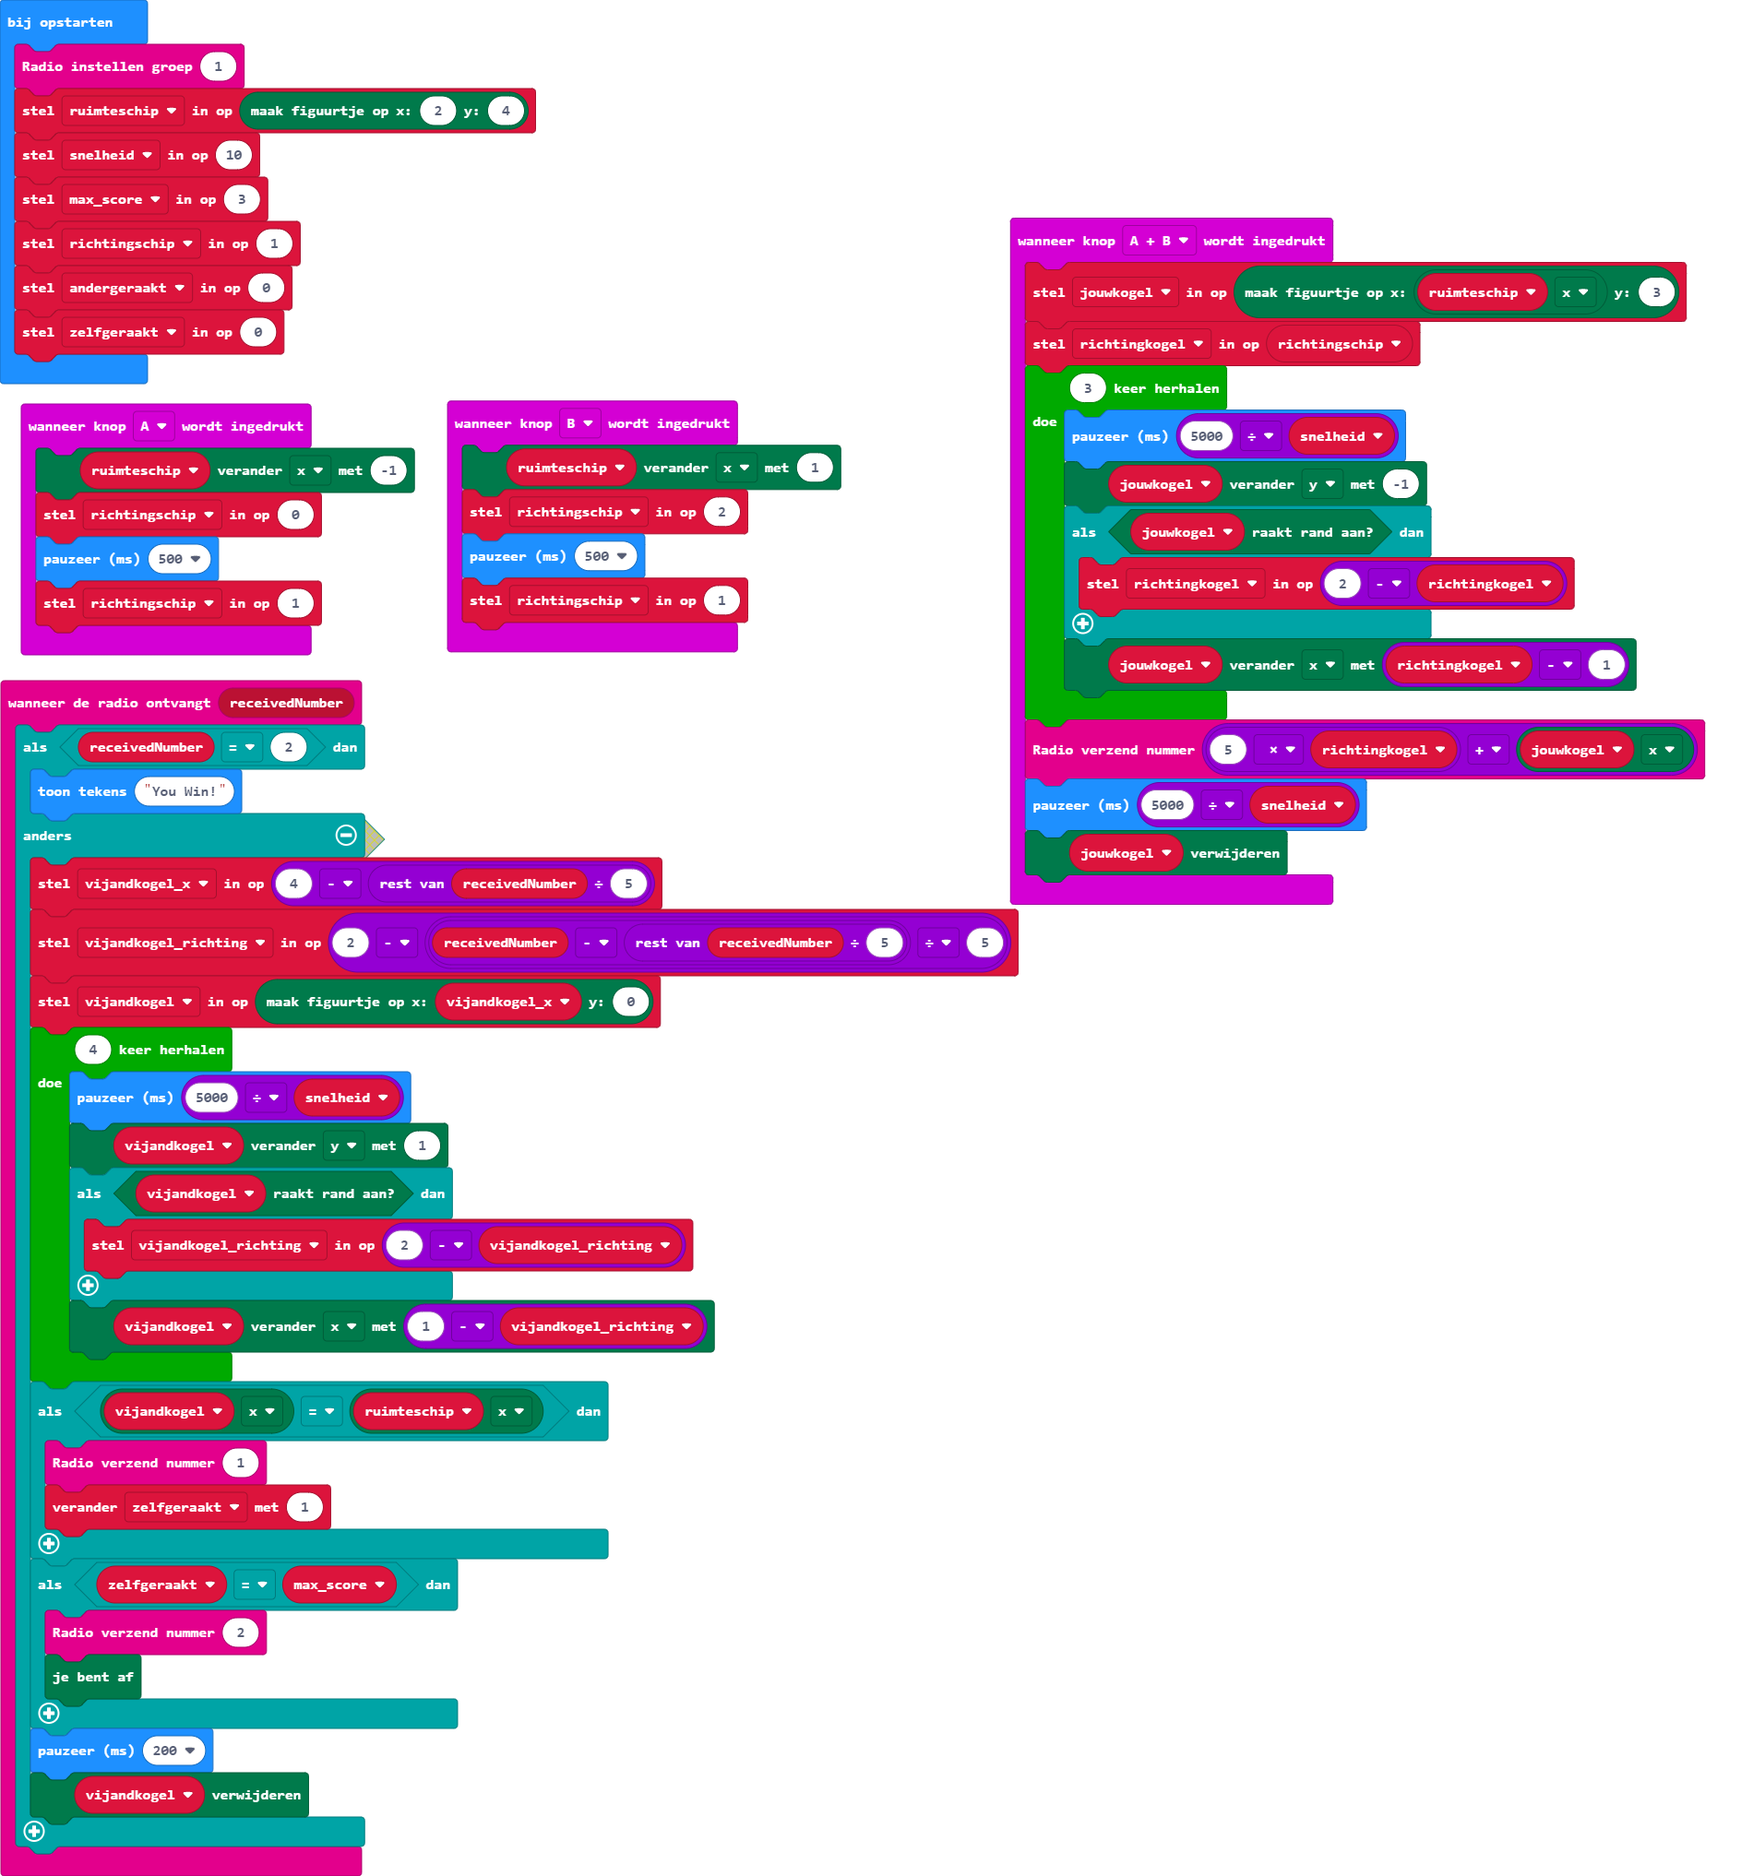
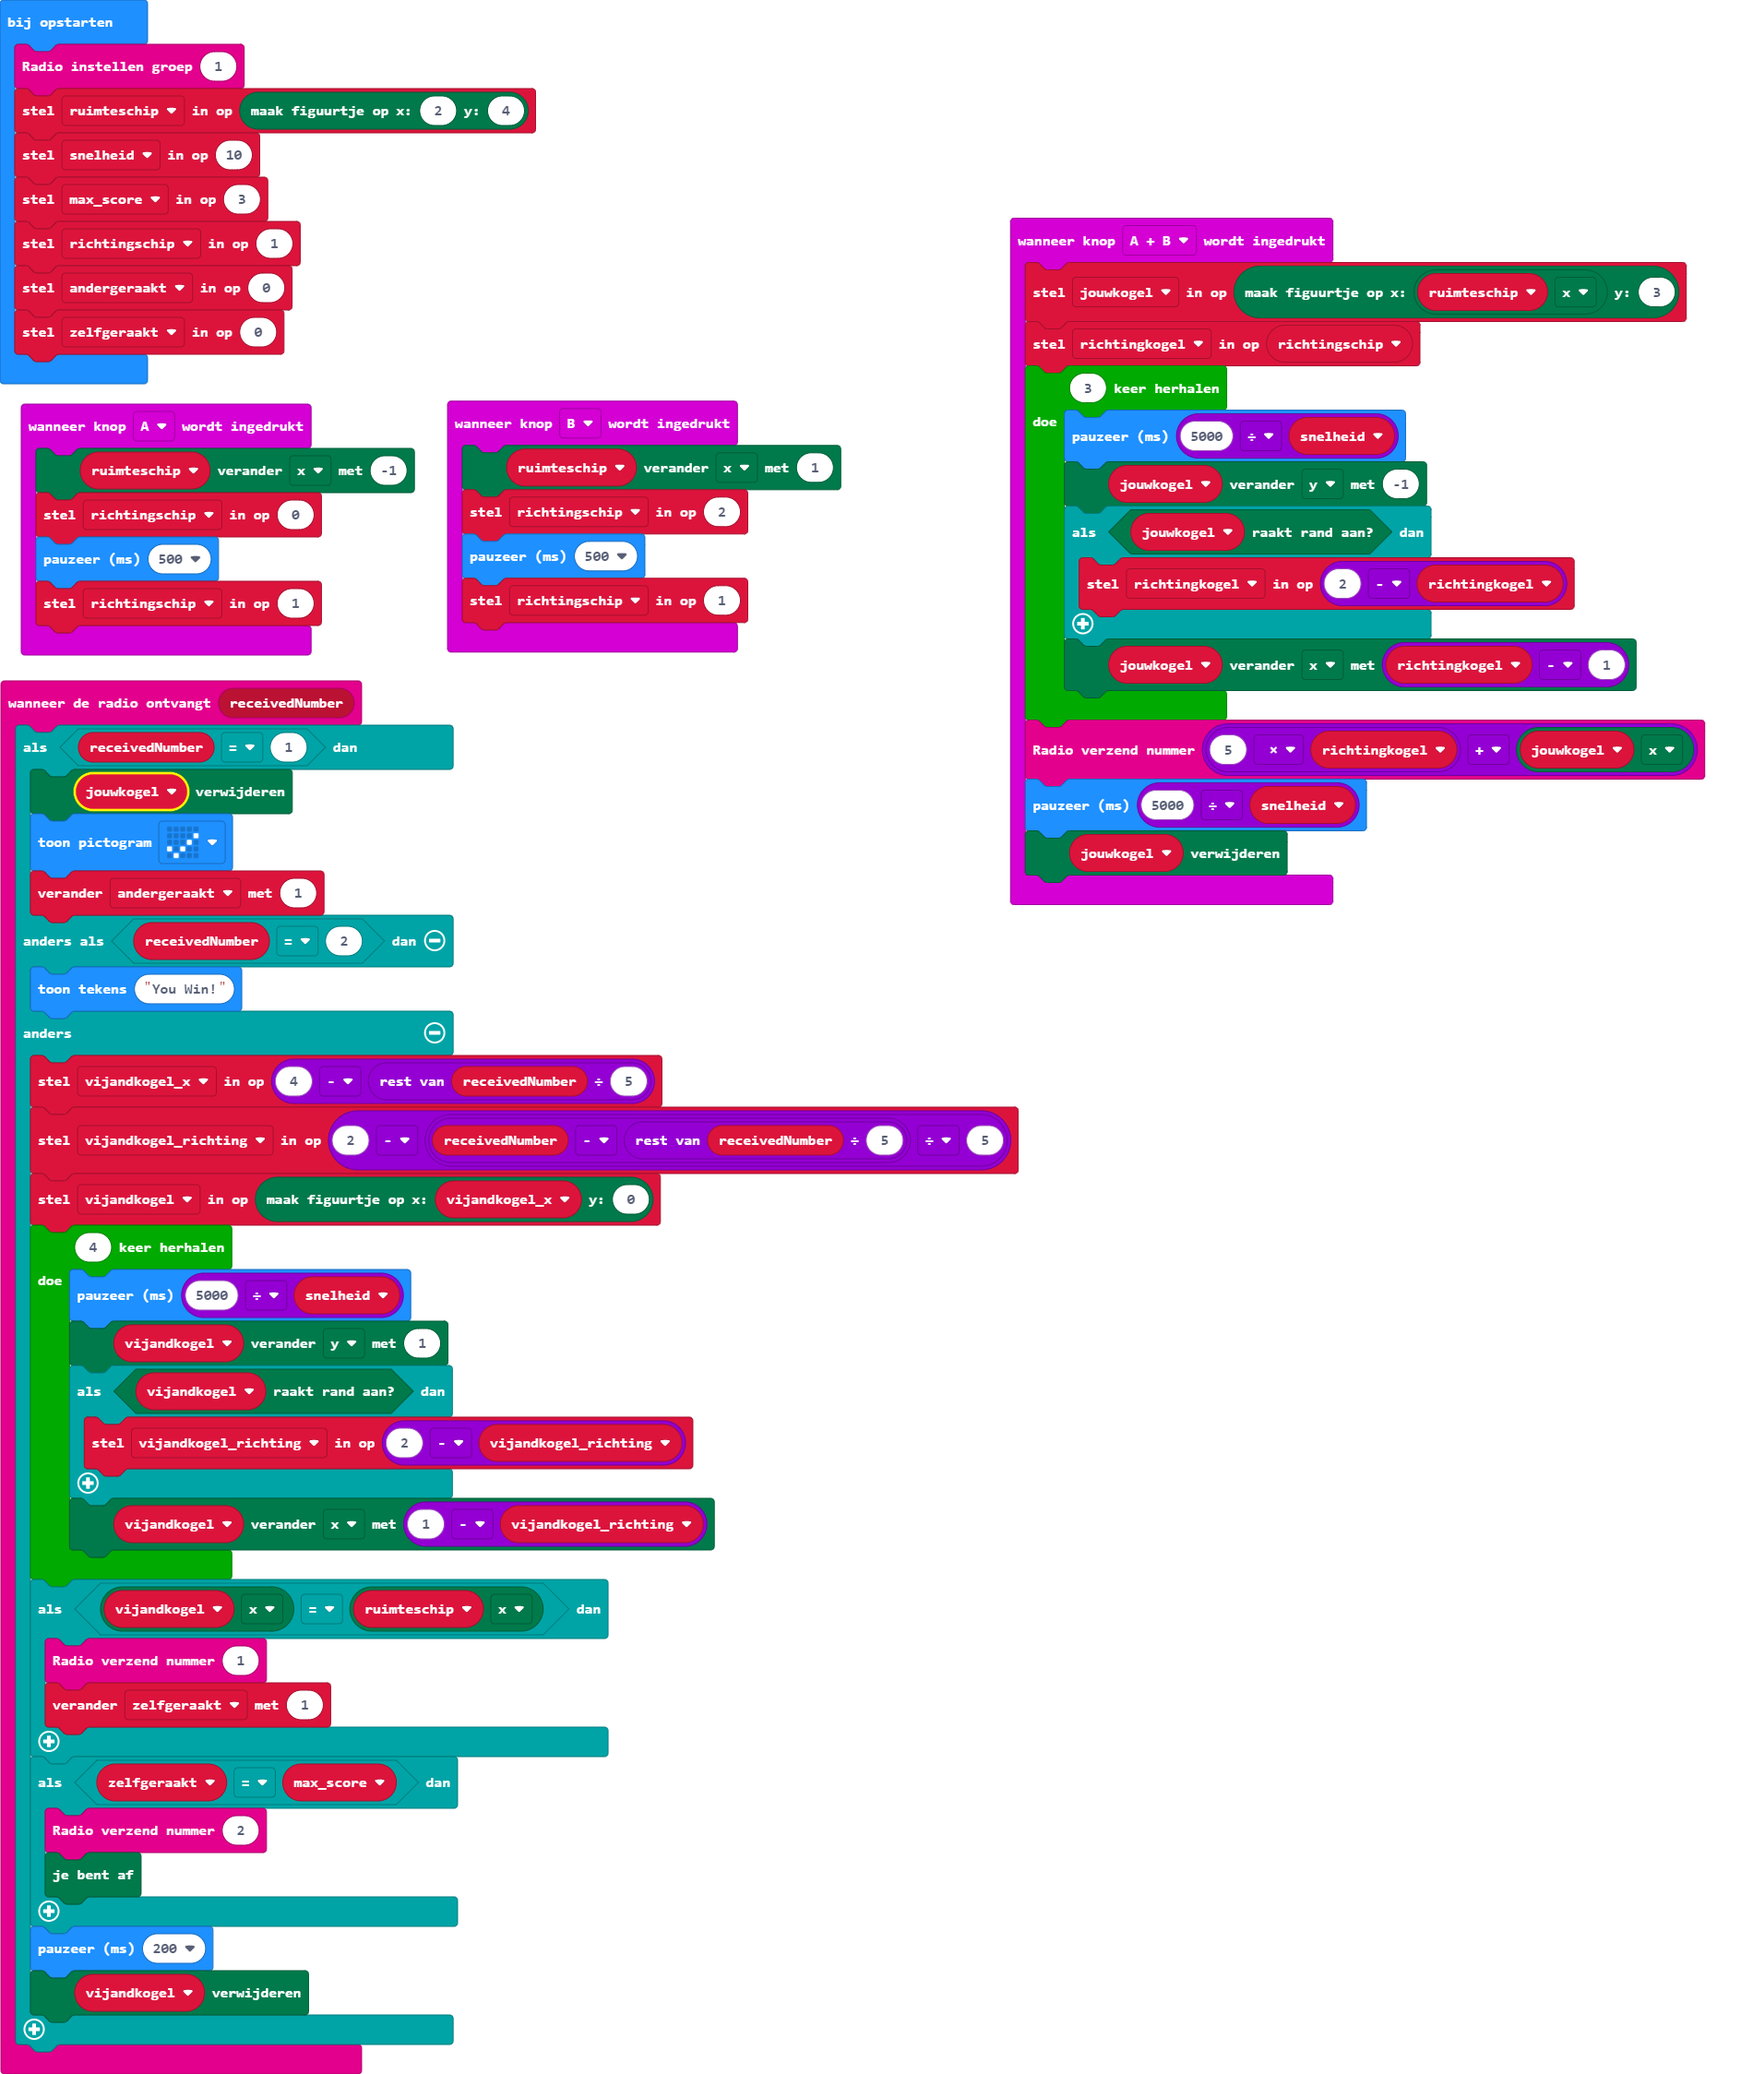
Update main.blocks, main.ts

diff --git a/main.ts b/main.ts
@@ -1,5 +1,9 @@
 radio.onReceivedNumber(function (receivedNumber) {
-    if (receivedNumber == 2) {
+    if (receivedNumber == 1) {
+        jouwkogel.delete()
+        basic.showIcon(IconNames.Yes)
+        andergeraakt += 1
+    } else if (receivedNumber == 2) {
         basic.showString("You Win!")
     } else {
         vijandkogel_x = 4 - receivedNumber % 5
@@ -53,10 +57,10 @@ input.onButtonPressed(Button.B, function () {
     richtingschip = 1
 })
 let richtingkogel = 0
-let jouwkogel: game.LedSprite = null
 let vijandkogel: game.LedSprite = null
 let vijandkogel_richting = 0
 let vijandkogel_x = 0
+let jouwkogel: game.LedSprite = null
 let zelfgeraakt = 0
 let richtingschip = 0
 let max_score = 0
